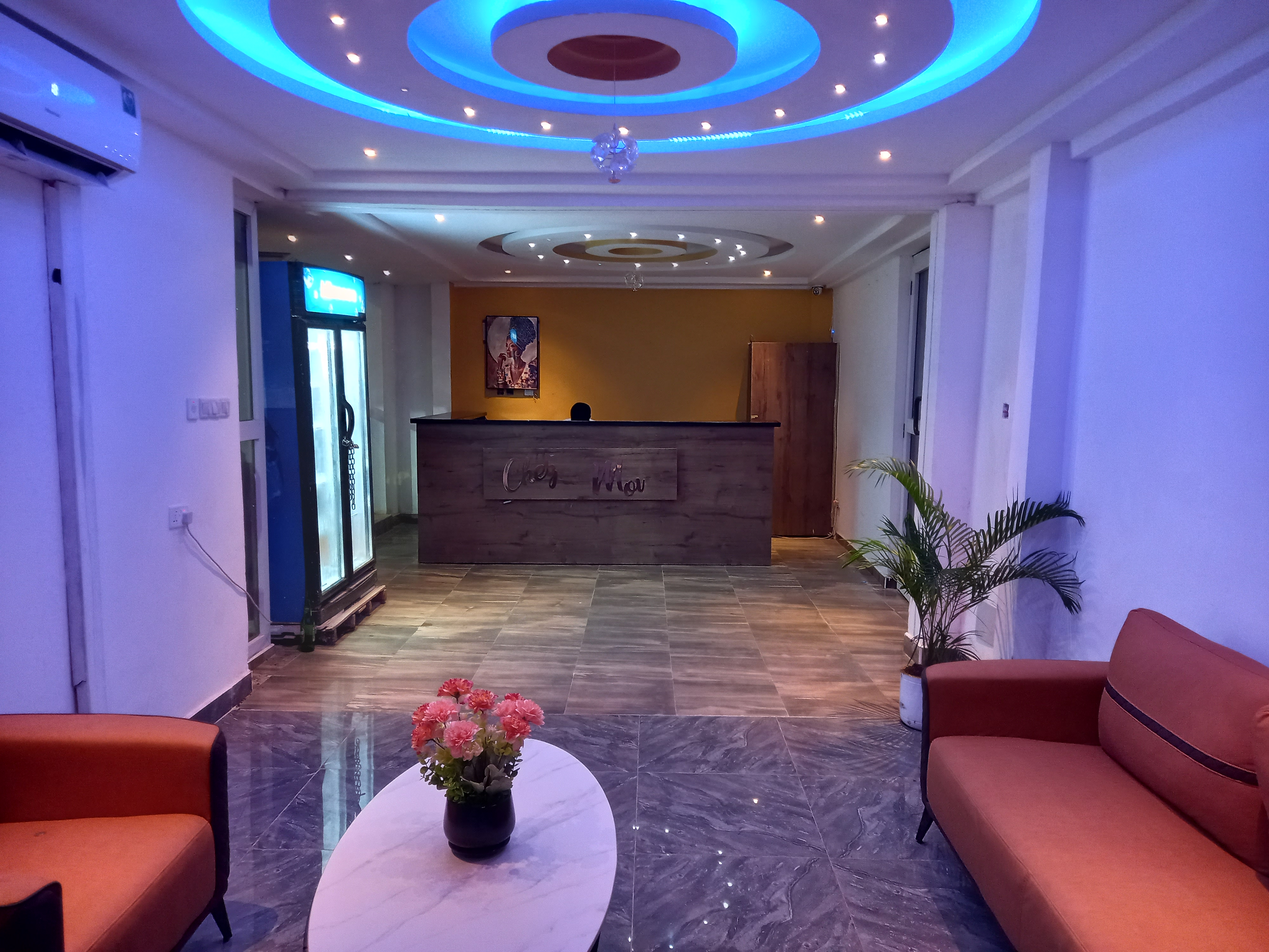
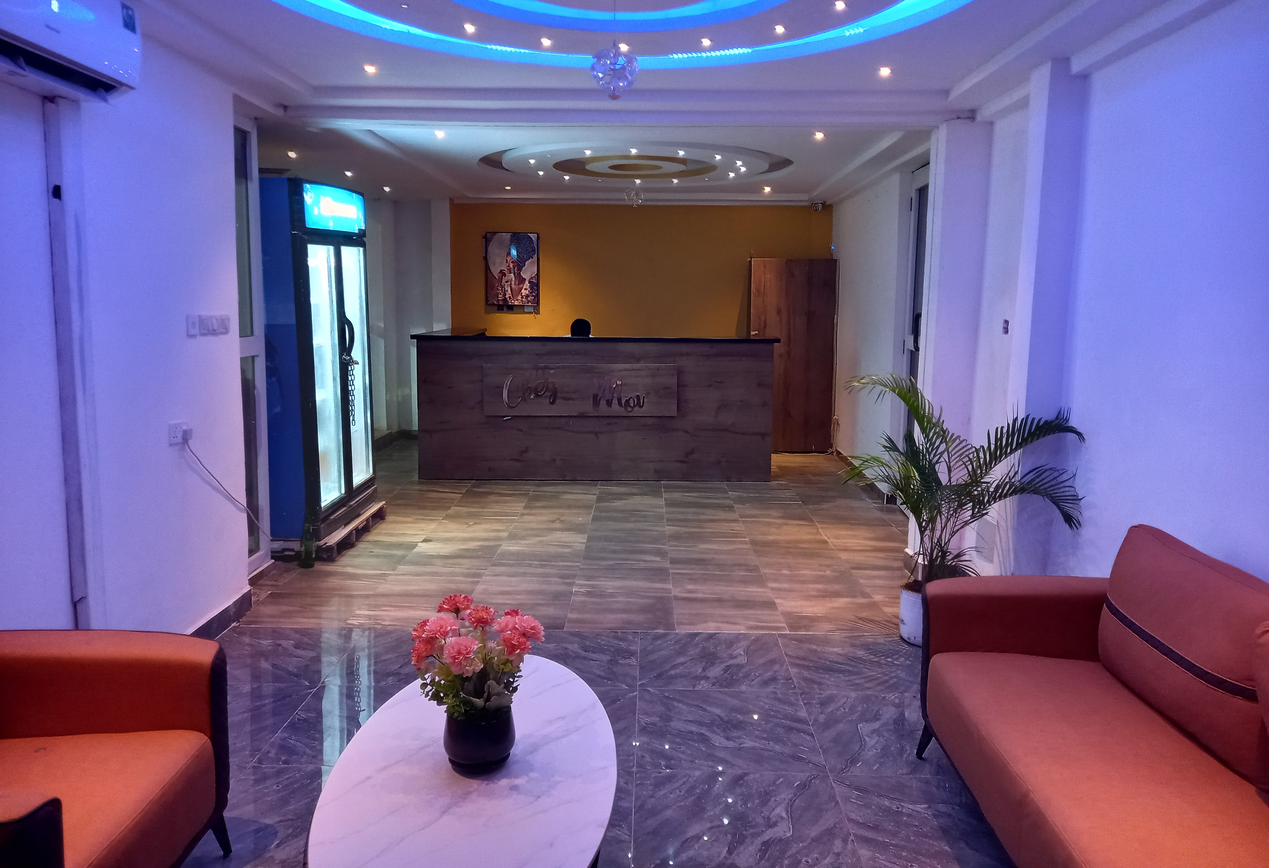
updates made

diff --git a/index.html b/index.html
@@ -179,7 +179,7 @@
           </p>
         </div>
         <div class="right">
-          <img src="Images\about\about_3.jpg" alt="reception-img" />
+          <img src="Images\about\about.jpg" alt="reception-img" />
         </div>
       </div>
     </section>
